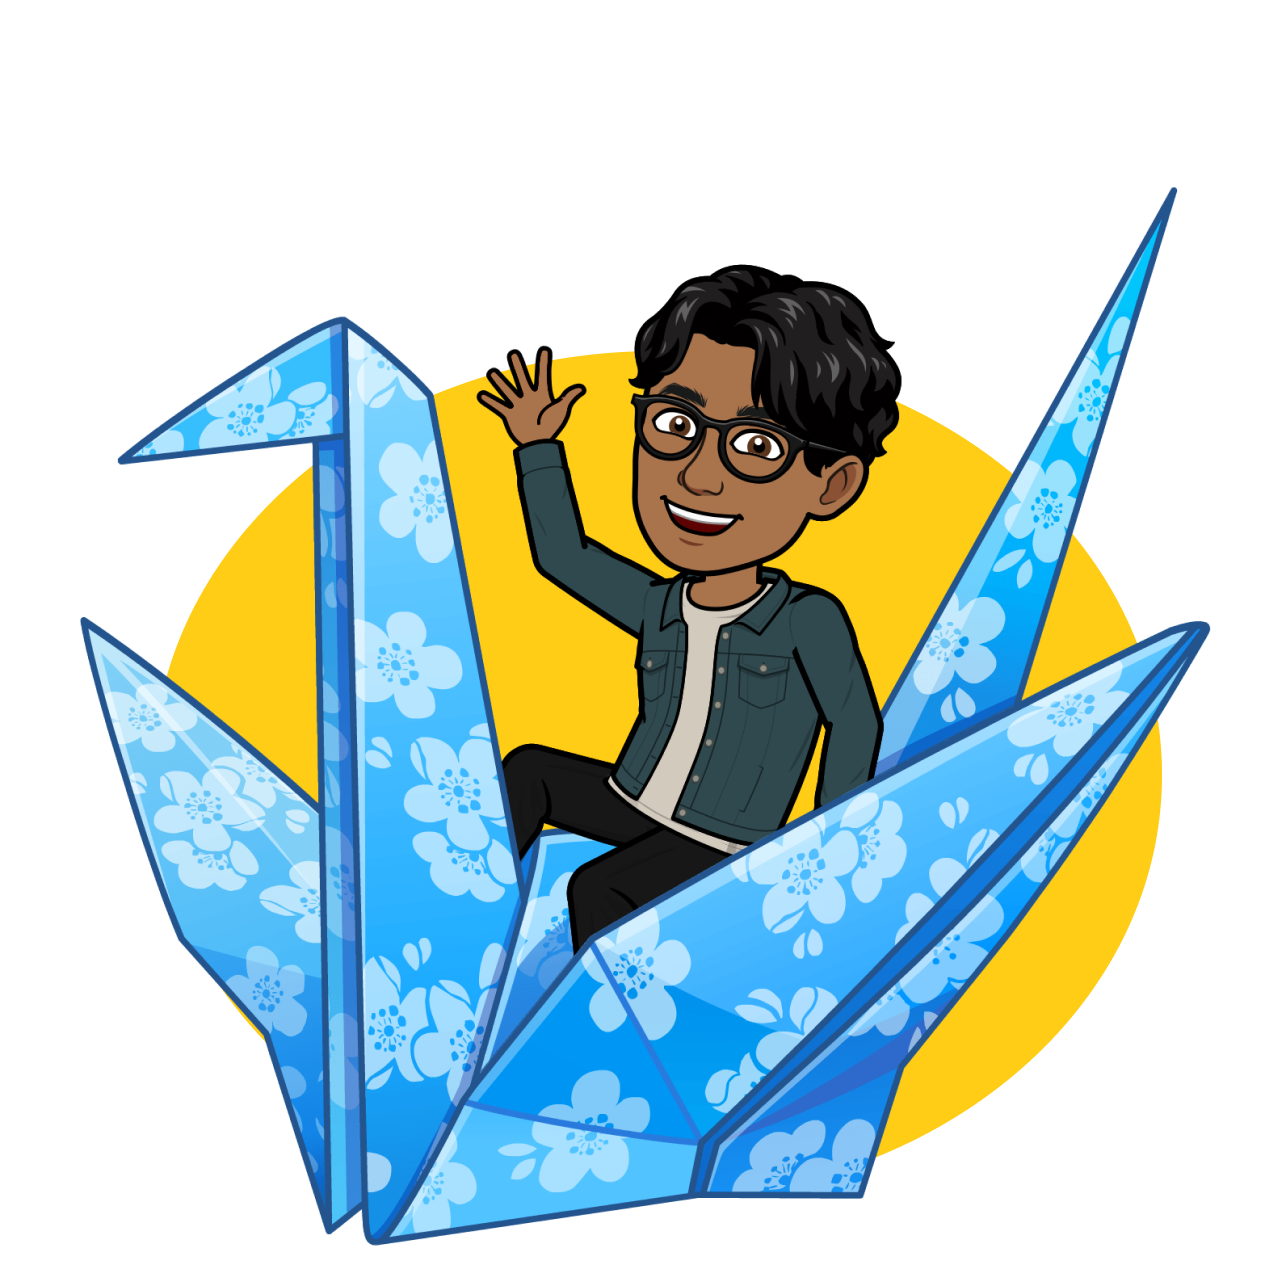
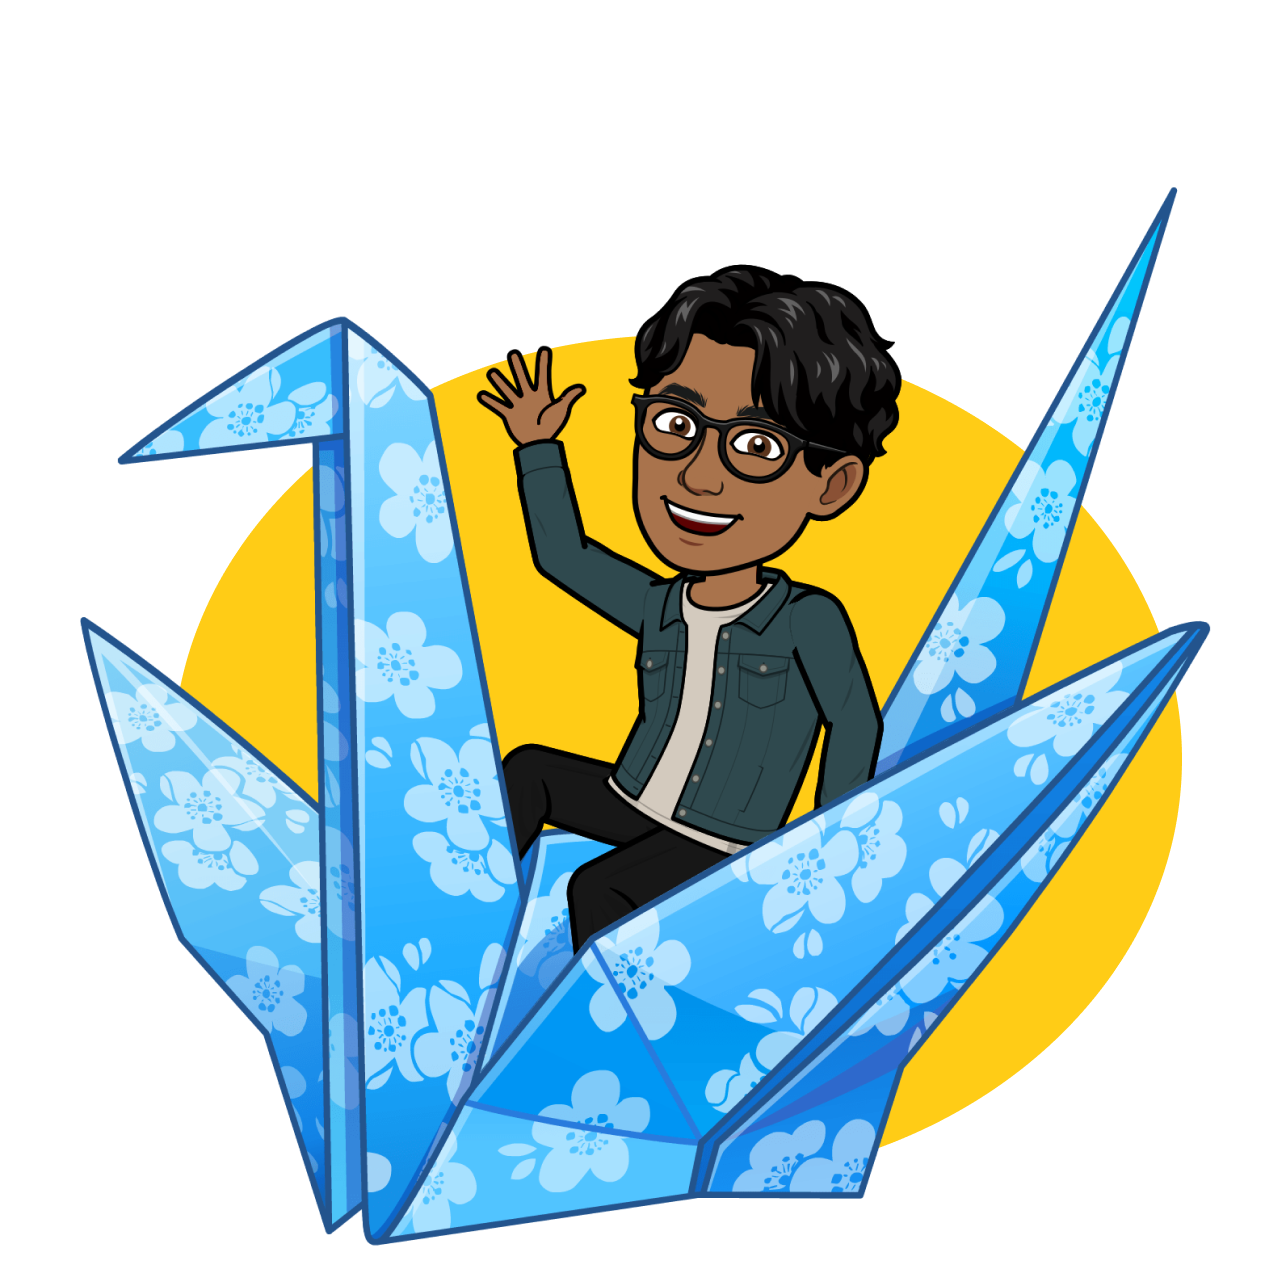
cool

diff --git a/pages/components/ui/AboutMe.js b/pages/components/ui/AboutMe.js
@@ -19,7 +19,7 @@ const AboutMe = () => {
     };
 
     return (
-        <MotionFlex
+        <Box
             direction="column"
             align="center"
             py={5}
@@ -27,17 +27,15 @@ const AboutMe = () => {
             color={textColor}
             borderRadius="lg"
             boxShadow="xl"
-            initial="initial"
-            animate="animate"
-            whileHover="hover"
-            layout
+            _hover={{ opacity: "1.0", transform: "scale(1.01)" }}
+            transition="all 0.2s ease-in-out"
         >
             <Box mb={4} mt={-12}>
                 <ChakraImage
                     borderRadius="full"
                     boxSize="150px"
-                    src="/oriwave.png"
-                    alt="Your Name"
+                    src="/anshpatel.png"
+                    alt="Ansh Patel"
                     boxShadow="2xl"
                 />
             </Box>
@@ -46,7 +44,7 @@ const AboutMe = () => {
                 Passionate Software Engineer | Tech Innovator | Student
             </Text>
             <Button mt={5} colorScheme="yellow" onClick={handleConnectClick}>Connect with Me</Button>
-        </MotionFlex>
+        </Box>
     );
 };
 
